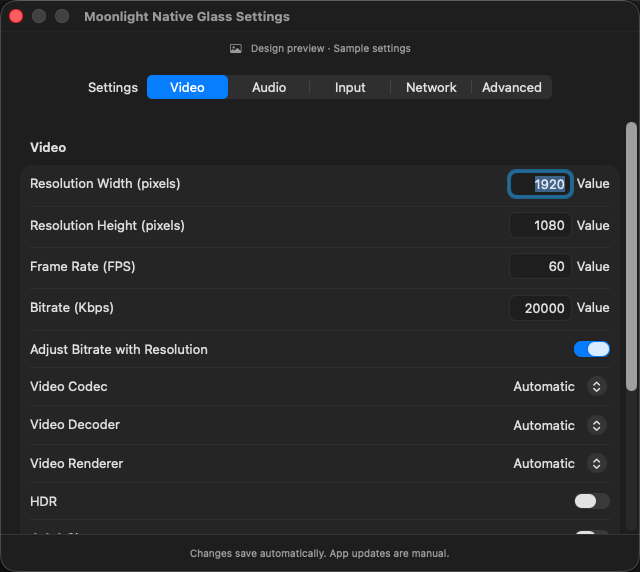
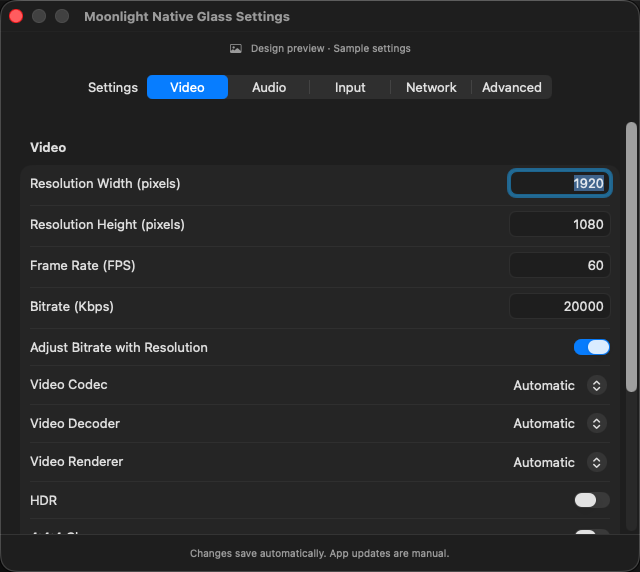
[ui probe] [publish preview] Publish only the verified Native Glass Preview 1 artifacts

diff --git a/README.md b/README.md
@@ -17,18 +17,18 @@
 A native macOS frontend for Sunshine and compatible GameStream hosts.
 Liquid Glass navigation and controls on **macOS 26+**, regular native styling on **macOS 15**, and system light/dark appearance throughout.
 
-[📦 Downloads](#-downloads) · [✨ Features](#-features) · [🖼 Preview](#-preview) · [🧪 Validation](#-validation) · [🛠 Build](#-build)
+[📦 Downloads](#-downloads) · [✨ Features](#-features) · [🖼 Preview](#-preview) · [🧪 Validation](#-validation) · [🛠 Build](#-build)
 
 </div>
 
 ## 📦 Downloads
 
-**Native UI Preview 1 is being validated. No release has been published yet.**
+**Native UI Preview 1 has passed build validation. Publishing the validated packages is the final step.**
 
 | Your Mac | Package |
 |---|---|
-| 🖥 **Intel** | Dedicated x86_64 ZIP — pending final validation |
-| 🍎 **Intel + Apple Silicon** | Universal ZIP — pending final validation |
+| 🖥 **Intel** | Dedicated x86_64 ZIP — validated; release publication pending |
+| 🍎 **Intel + Apple Silicon** | Universal ZIP — validated; release publication pending |
 
 [Preview releases](https://github.com/th3d3ck3r/moonlight-native-glass/releases) · [Validation runs](https://github.com/th3d3ck3r/moonlight-native-glass/actions/workflows/native-macos.yml) · [Checkpoint](docs/NATIVE_UI_CHECKPOINT.md)
 
@@ -70,10 +70,10 @@ This is a separate project from Enhanced. Enhanced-only microphone, clipboard an
 
 | Check | Verified state |
 |---|---|
-| Full Intel + Universal app builds | Earlier milestones passed; final preview build pending |
-| Nested binaries, architectures and signatures | Earlier full bundles passed dependency and signature audits |
+| Full Intel + Universal app builds | Passed at `d746f2a` · [validation run](https://github.com/th3d3ck3r/moonlight-native-glass/actions/runs/37589657439) |
+| Nested binaries, architectures and signatures | Passed signature, identity, permission and dependency audits of 105 Mach-O files |
 | Engine bridge and settings persistence | Passed real helper validation, including restart persistence and invalid-input rejection |
-| Native UI screenshots | XCTest passed light/dark/compact, empty/offline/unpaired, sheets and five Settings panes; screenshots inspected |
+| Native UI screenshots | 15 Release-mode XCTest captures passed: light/dark/compact, loading/empty/offline/unpaired, sheets and five Settings panes; screenshots inspected |
 | Physical Intel Tahoe pairing and streaming | **Not tested for this new app** |
 | Intel CPU/GPU usage and frame pacing | **Not measured**; compilation does not prove performance parity |
 
@@ -122,7 +122,7 @@ xcodebuild -project tests/native/NativeUITests.xcodeproj \
 |---|---|
 | Native sidebar, library, Settings and sheets | Implemented |
 | Tahoe controls + macOS 15 fallback | Implemented; physical accessibility checks remain |
-| Intel + Universal preview packages | Final validation in progress |
+| Intel + Universal preview packages | Validated; preview publication pending |
 | Physical streaming and performance comparison | Required before calling this a stable replacement |
 
 Built on [Moonlight Qt](https://github.com/moonlight-stream/moonlight-qt) and [moonlight-common-c](https://github.com/moonlight-stream/moonlight-common-c). See [GPL-3.0 license](LICENSE) and [original upstream documentation](docs/UPSTREAM_README.md).

diff --git a/docs/NATIVE_PREVIEW_RELEASE.md b/docs/NATIVE_PREVIEW_RELEASE.md
@@ -1,0 +1,19 @@
+Experimental SwiftUI/AppKit frontend for the Moonlight Qt 6.2.0 engine.
+
+Native sidebar, toolbar, game cards, five Settings panes, pairing/address/details sheets and system light/dark appearance. Uses native Liquid Glass controls on macOS 26+ and regular native controls on macOS 15. Moonlight icon, SF Symbols and host-provided box art are reused. Updates remain manual.
+
+The bundled Qt helper keeps the upstream streaming, networking, settings, common-c and mDNS implementations unchanged. Each stream uses the original Session/SDL video window. Preferences and pairing are isolated from stock Moonlight and Enhanced; pair again in this app.
+
+Validated source: `d746f2adf461e0dced2ef49e8c15c6e91642a198`. [All required validation jobs passed](https://github.com/th3d3ck3r/moonlight-native-glass/actions/runs/37589657439).
+
+Validation: full x86_64 and Universal compilation; nested architectures, signatures and dependencies; unchanged engine source; event framing; real adapter validation and preference persistence. 15 Release-mode XCTest UI captures passed; composited sample-content screenshots were inspected. Included captures are labeled design previews. They do not demonstrate host connectivity.
+
+These packages require macOS 15+. They are ad-hoc signed, not Developer ID signed or notarized. Physical Intel/Tahoe discovery, Local Network approval, pairing, streaming, controller input, multi-display behavior and CPU/GPU/frame pacing remain unverified. No performance improvement or parity is claimed. Enhanced-only microphone, clipboard and AWDL features are not included.
+
+Intel Tahoe test checklist:
+- Launch from Finder, allow Local Network access, discover/add and pair a host; quit/relaunch to check persistence.
+- Compare the same 1080p60 H.264 and HEVC sessions against stock 6.2.0; verify hardware decode, audio, mouse, keyboard and controller.
+- Launch/resume/quit games and disconnect with Control–Option–Shift–Q or Start + Select + L1 + R1.
+- Resize, enter/exit fullscreen and switch displays; check focus and settings persistence.
+- Check light/dark mode, Reduce Transparency, Reduce Motion, increased contrast and VoiceOver.
+- Compare decode time, frame pacing, CPU/GPU and stock performance-overlay results on identical hardware/settings. Save crash reports and engine logs for failures.

diff --git a/docs/NATIVE_UI_CHECKPOINT.md b/docs/NATIVE_UI_CHECKPOINT.md
@@ -43,7 +43,14 @@ harness hung on Add Computer. XCTest captured all 15 cases successfully.
 Removing fallback capture code and duplicate diagnostics; XCTest becomes the
 sole UI capture gate, now with Release optimization matching the shipped frontend.
 Removed the redundant “Value” label from numeric Settings fields.
-Final full builds and XCTest rerun pending. No release published yet.
+`d746f2a`, run `37589657439`: **all three jobs passed**. Full Intel and Universal
+builds, signatures, permissions, identities and dependencies (105 Mach-O files),
+event framing, real bridge/atomic settings validation/restart persistence, and
+15 Release-mode XCTest screenshots passed. Composited screenshots inspected.
+Publisher is gated to this exact SHA/run and its successful jobs/artifacts;
+release publication pending. Source/native work is complete for Preview 1.
+Non-blocking warnings include unused preview argument locals and upstream API
+warnings. Physical validation limits below remain unchanged.
 
 ## Physical Intel Tahoe checklist
 
